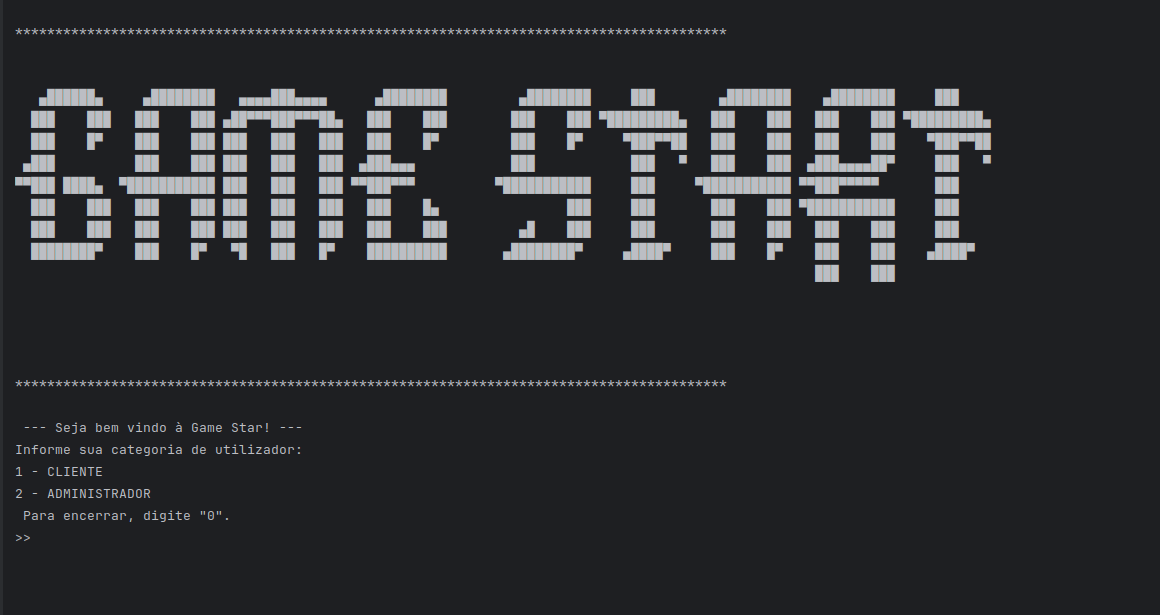
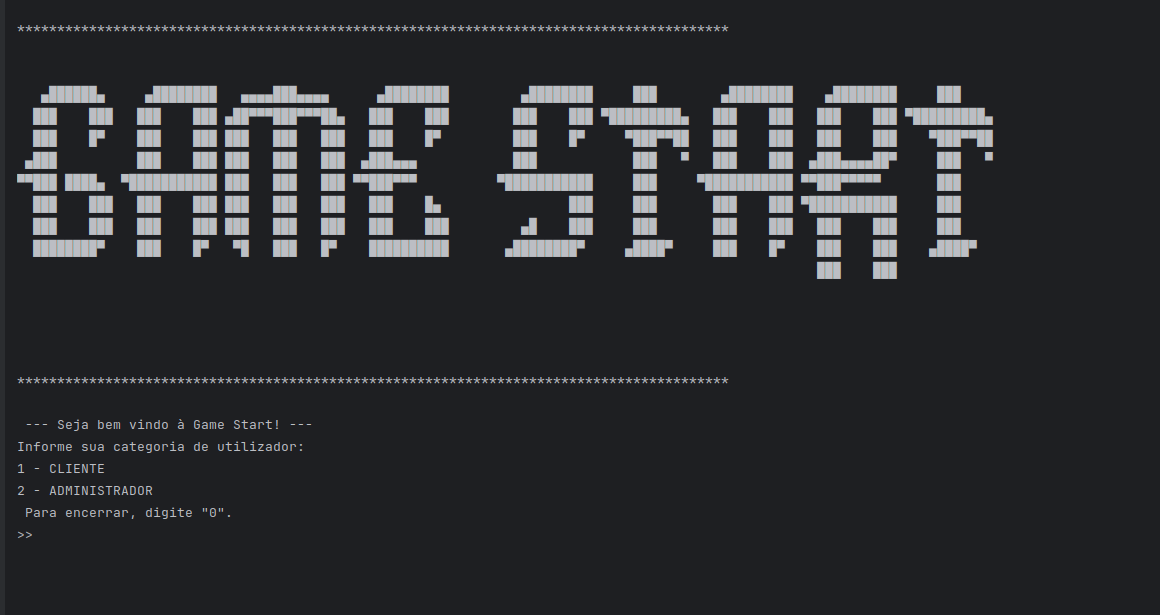
README

diff --git a/src/gameStart/Menu.java b/src/gameStart/Menu.java
@@ -22,7 +22,7 @@ public class Menu {
 
         do {
 
-            System.out.println(" --- Seja bem vindo à Game Star! ---");
+            System.out.println(" --- Seja bem vindo à Game Start! ---");
             System.out.println("Informe sua categoria de utilizador: ");
             System.out.println("1 - CLIENTE");
             System.out.println("2 - ADMINISTRADOR");
